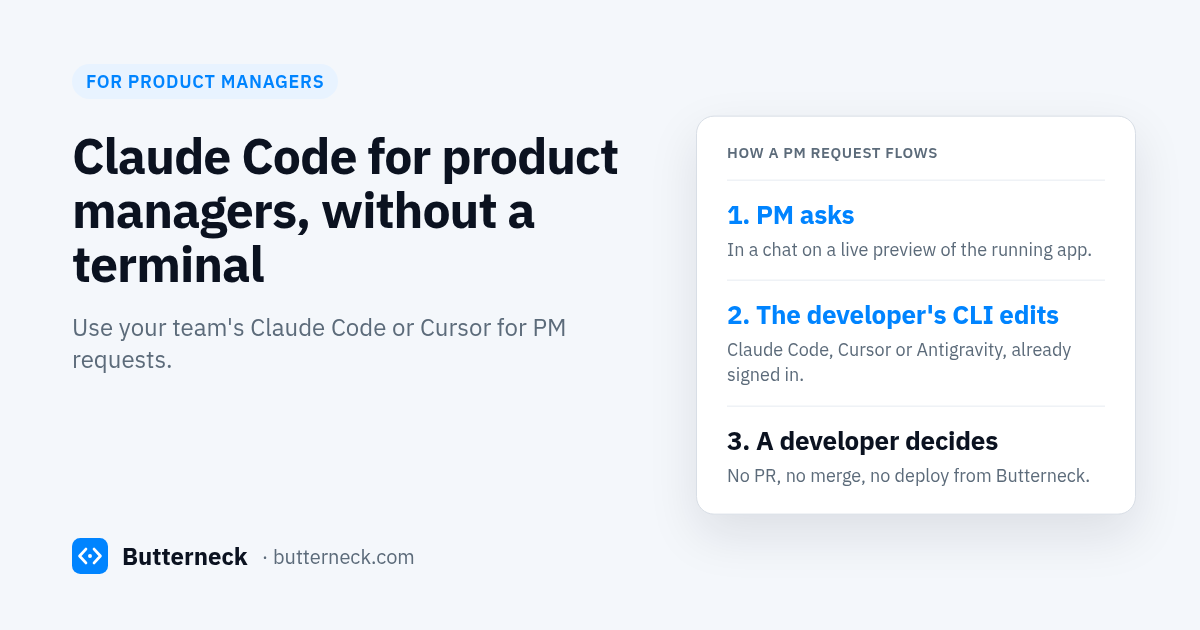
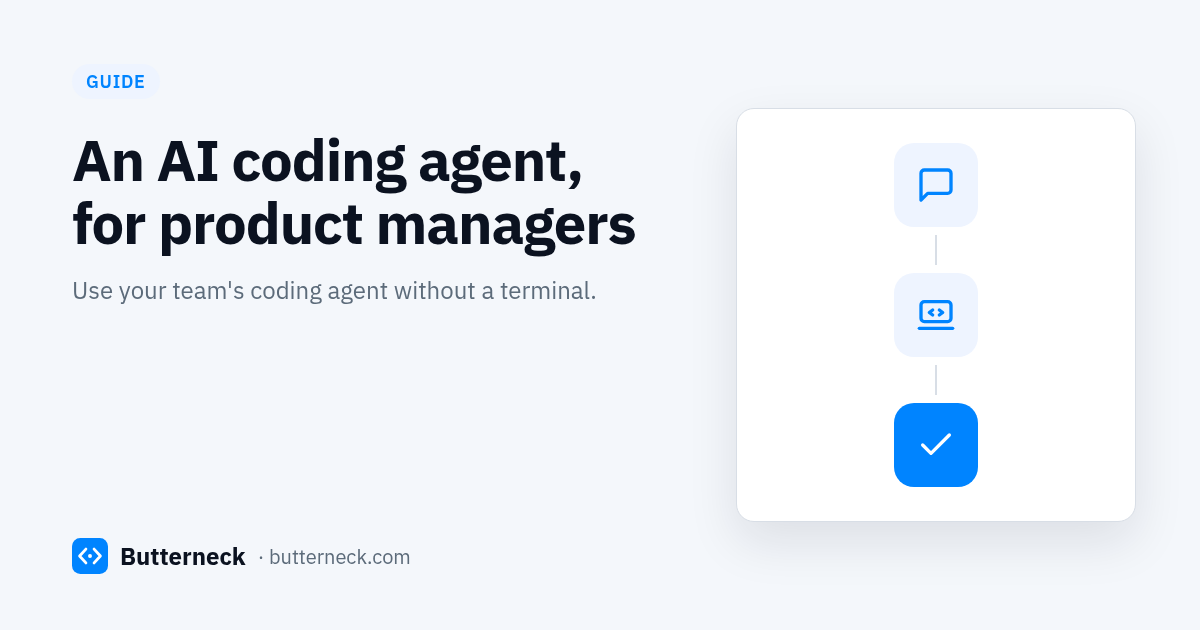
Name-free blog covers: tools roundup, let-PMs, Claude Code, Lovable (no site-wide OG)

diff --git a/src/content/posts/claude-code-for-product-managers.ts b/src/content/posts/claude-code-for-product-managers.ts
@@ -12,7 +12,7 @@ export const post: BlogPost = {
   tags: ["Claude Code for product managers", "Cursor for PMs", "AI for product managers", "AI change requests", "product teams", "AI coding agent for product managers", "Claude Code for designers"],
   cover: {
     src: "/blog/cover-claude-code-for-product-managers.png",
-    alt: "Butterneck blog cover: Claude Code for product managers, without a terminal. The PM asks on a live preview, the developer's Claude Code, Cursor or Antigravity makes the change, and a developer decides",
+    alt: "Butterneck blog cover: An AI coding agent, for product managers — Use your team's coding agent without a terminal.",
     width: 1200,
     height: 630,
   },

diff --git a/src/content/posts/let-product-managers-change-the-app-without-engineering.ts b/src/content/posts/let-product-managers-change-the-app-without-engineering.ts
@@ -9,8 +9,8 @@ export const post: BlogPost = {
   author: "The Butterneck team",
   tags: ["product managers", "AI change requests", "answer", "AI app builder"],
   cover: {
-    src: "/blog/cover-how-pms-can-change-a-live-app.png",
-    alt: "Butterneck blog cover: Can product managers change the app without engineering?",
+    src: "/blog/cover-let-product-managers-change-the-app-without-engineering.png",
+    alt: "Butterneck blog cover: Can product managers change the app without engineering? — A developer still decides what ships.",
     width: 1200,
     height: 630,
   },

diff --git a/src/content/posts/tools-for-non-developers-to-change-an-existing-app.ts b/src/content/posts/tools-for-non-developers-to-change-an-existing-app.ts
@@ -12,7 +12,7 @@ export const post: BlogPost = {
   tags: ["comparison", "AI tools", "AI change requests", "product teams", "non-developers"],
   cover: {
     src: "/blog/cover-tools-for-non-developers-to-change-an-existing-app.png",
-    alt: "Butterneck blog cover: AI tools that let non-developers change an existing web app, compared",
+    alt: "Butterneck blog cover: AI tools that let non-developers change an existing web app — A 2026 guide.",
     width: 1200,
     height: 630,
   },

diff --git a/src/content/posts/lovable-alternative.ts b/src/content/posts/lovable-alternative.ts
@@ -12,7 +12,7 @@ export const post: BlogPost = {
   tags: ["Lovable alternative", "comparison", "AI app builder", "AI change requests", "product teams"],
   cover: {
     src: "/blog/cover-lovable-alternative.png",
-    alt: "Butterneck blog cover: Lovable alternative for teams with an existing app, an honest comparison",
+    alt: "Butterneck blog cover: An alternative for teams with an existing app — Change the app you already have.",
     width: 1200,
     height: 630,
   },
